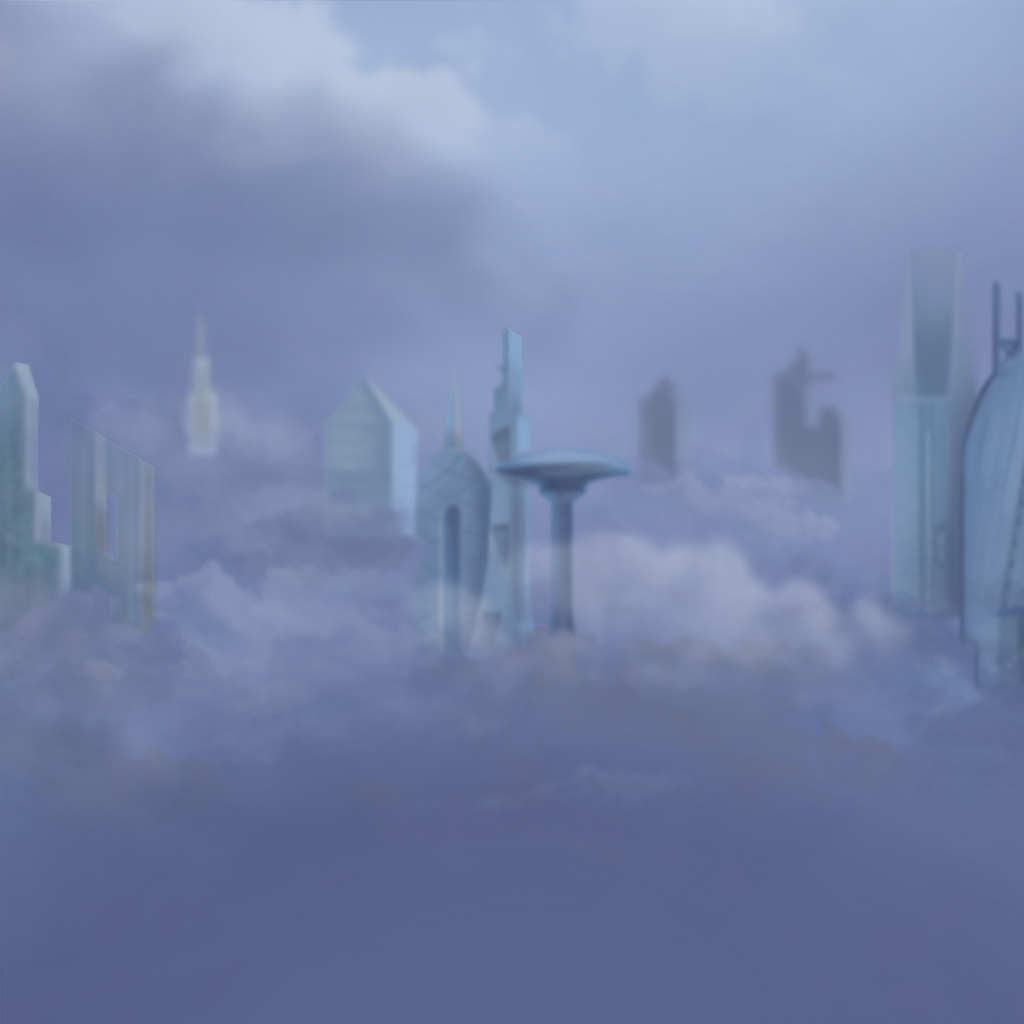
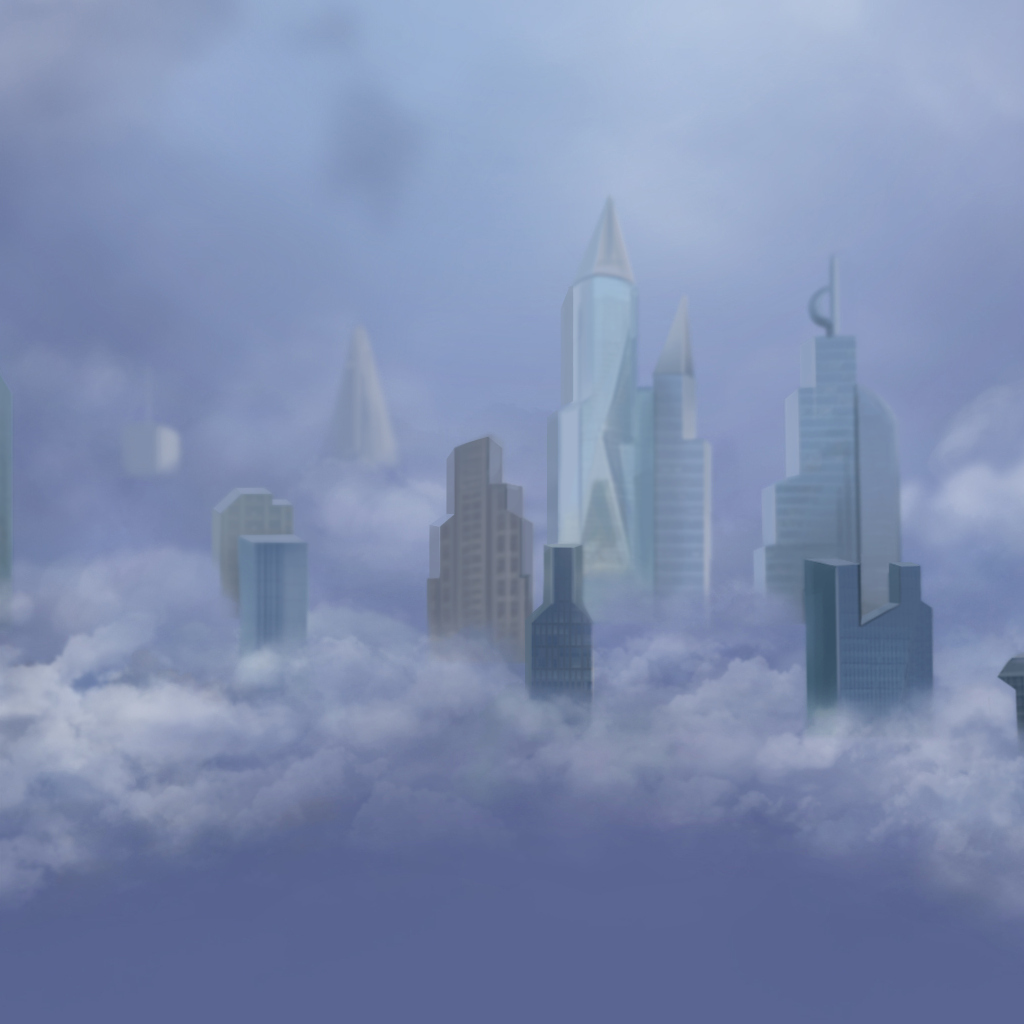
Update home page and arena

diff --git a/src/components/threejs/model.ts b/src/components/threejs/model.ts
@@ -1,4 +1,4 @@
-import { Vector3, LoadingManager, CubeTextureLoader, sRGBEncoding, DirectionalLight, Mesh, PerspectiveCamera, Scene, WebGLRenderer } from "three"
+import { Vector3, LoadingManager, CubeTextureLoader, LinearEncoding, sRGBEncoding, DirectionalLight, Mesh, PerspectiveCamera, Scene, WebGLRenderer } from "three"
 import { OrbitControls } from 'three/examples/jsm/controls/OrbitControls'
 import { GLTFLoader } from 'three/examples/jsm/loaders/GLTFLoader'
 import type { GLTF } from 'three/examples/jsm/loaders/GLTFLoader'
@@ -11,6 +11,7 @@ export class Model {
   private dom: HTMLElement
   private controls: OrbitControls
   private light1: DirectionalLight
+  private light2: DirectionalLight
   private loader: GLTFLoader
   private isAnimating: boolean
   private weaponCoord: number[]
@@ -49,7 +50,7 @@ export class Model {
 
     this.renderer = new WebGLRenderer({ antialias: true, alpha: true });
 
-    this.renderer.outputEncoding = sRGBEncoding;
+    this.renderer.outputEncoding = LinearEncoding;
     this.renderer.physicallyCorrectLights = true
     this.renderer.setClearColor(0x000000, 0); // the default
     this.renderer.setPixelRatio(window.devicePixelRatio);
@@ -60,20 +61,20 @@ export class Model {
     this.controls.update();
 
     if (arenaBg) {
-      this.controls.minDistance = 20;
-      this.controls.maxDistance = 32;
+      this.controls.minDistance = 25;
+      this.controls.maxDistance = 35;
 
       this.scene.background = new CubeTextureLoader()
         .setPath('/img/arena/')
         .load([
-          'nx (2).png',
-          'px (2).png',
-          'py (2).png',
-          'ny (2).png',
-          'pz (2).png',
-          'nz (2).png'
+          'px.png',
+          'nx.png',
+          'py.png',
+          'ny.png',
+          'pz.png',
+          'nz.png'
         ]);
-
+      
       this.loader.load('/media/postament.glb', (gltf) => {
         gltf.scene.name = 'postament'
         gltf.scene.position.setY(0.5)
@@ -81,9 +82,9 @@ export class Model {
         this.scene.add(gltf.scene)
       });
 
-      const light2 = new DirectionalLight(0xFFFFFF, 2);
-      light2.position.set(0, 100, 0);
-      this.scene.add(light2);
+      const light = new DirectionalLight(0xFFFFFF, 4);
+      light.position.set(0, 100, 0);
+      this.scene.add(light);
 
       this.controls.maxPolarAngle = Math.PI / 1.7;
 
@@ -97,14 +98,17 @@ export class Model {
 
 
     const camPos = this.camera.position
-    this.light1 = new DirectionalLight(0xFFFFFF, 3.5);
-    this.light1.position.set(camPos.x, 0, camPos.z);
+    this.light1 = new DirectionalLight(0xFFFFFF, 4.5);
+    this.light1.position.set(camPos.x, camPos.y + 50, camPos.z);
     this.scene.add(this.light1);
+    this.light2 = new DirectionalLight(0xFFFFFF, 3.5);
+    this.light2.position.set(camPos.x, camPos.y + -10, camPos.z);
+    this.scene.add(this.light2);
     this.scene.scale.set(globalScale, globalScale, globalScale);
 
     manager.onLoad = () => {
       this.dom.appendChild(this.renderer.domElement);
-      document.getElementById('loader').style.display = 'none';
+      document.getElementById('loader').style.opacity = '0';
       window.addEventListener("resize", this.onWindowResize.bind(this), false);
       if (!this.isAnimating) {
         this.animate();
@@ -149,9 +153,8 @@ export class Model {
   private animate(): void {
     requestAnimationFrame(this.animate.bind(this));
     this.controls.update();
-    this.light1.position.setX(this.camera.position.x);
-    this.light1.position.setZ(this.camera.position.z);
-    this.light1.position.setY(this.camera.position.y);
+    this.light1.position.set(this.camera.position.x, this.camera.position.y + 50, this.camera.position.z);
+    this.light2.position.set(this.camera.position.x, this.camera.position.y - 10, this.camera.position.z);
     this.renderer.render(this.scene, this.camera);
   }
 }

diff --git a/src/components/threejs/arena.ts b/src/components/threejs/arena.ts
@@ -16,7 +16,7 @@ export class Model {
     this.camera = new PerspectiveCamera(cam, this.dom.offsetWidth / this.dom.offsetHeight);
 
     this.scene = new Scene();
-    this.scene.translateY(0.15)
+    this.scene.translateY(0.3)
 
     const manager = new LoadingManager();
     manager.onProgress = function (item, loaded, total) {
@@ -35,8 +35,8 @@ export class Model {
     const material = new SpriteMaterial({ map: map, color: 0xffffff, fog: false });
 
     const sprite = new Sprite(material);
-    sprite.translateY(-1.3);
-    sprite.scale.set(8,8,8)
+    sprite.translateY(1.4);
+    sprite.scale.set(6,6,6)
     this.scene.add(sprite);
 
     this.renderer = new WebGLRenderer({ antialias: true, alpha: true });
@@ -52,17 +52,18 @@ export class Model {
     const polarAngle = Math.PI / 1.7
     this.controls.minPolarAngle = polarAngle;
     this.controls.maxPolarAngle = polarAngle;
+    this.controls.enableRotate = false;
     this.controls.enableZoom = false;
     this.controls.enablePan = false;
     this.controls.autoRotate = true;
 
-    this.light = new DirectionalLight(0xFDFDFD, 6.5);
+    this.light = new DirectionalLight(0xAAAAAA, 8.5);
     this.light.position.set(this.camera.position.x, this.camera.position.y, this.camera.position.z);
     this.scene.add(this.light);
 
     manager.onLoad = () => {
       this.dom.appendChild(this.renderer.domElement);
-      //document.getElementById('loader').style.display = 'none';
+      document.getElementById('loader').style.opacity = '0';
       window.addEventListener("resize", this.onWindowResize.bind(this), false);
       this.animate();
     };

diff --git a/src/routes/index.svelte b/src/routes/index.svelte
@@ -190,16 +190,17 @@
     <img src="/img/home/main.jpg" class="home-image" alt="Home page">
     <div class="home-arena cursor-pointer" on:click={() => goto('/arena')}>
       <img src="/img/home/arena.png" class="w-100" alt="Home arena">
+      <Arena />
+      <img src="/img/home/molnia.png" class="lottie" alt="Home arena">
       <lottie-player
         autoplay
         loop
         mode="normal"
-        src="/lottie/arena.json"
+        src="/lottie/molnii.json"
         class="lottie"
 
       >
       </lottie-player> 
-      <Arena />
     </div>
     <img src="/img/home/secondary.png" class="home-secondary" alt="Home secondary">
     <div class="home-stake cursor-pointer">
@@ -256,6 +257,12 @@
 
   </div>
 
+  <div id="loader" style="background: #000; position: absolute; left: 0; top: 0; height: 100%; width: 100%; pointer-events: none; transition: all 1s;">
+    <div style="position: absolute; left: 50%; top: 50%; transform: translate(-50%, -50%); ">
+      <div class="lds-spinner"><div></div><div></div><div></div><div></div><div></div><div></div><div></div><div></div><div></div><div></div><div></div><div></div></div>
+    </div>
+  </div>
+
   <a href="/" class="logo-home">
     <Logo height={36} />
   </a>		
@@ -263,4 +270,6 @@
   <div class="auth-home">
     <Auth />
   </div>  
+
+
 </div>

diff --git a/src/routes/arena/index.svelte b/src/routes/arena/index.svelte
@@ -62,8 +62,10 @@
   <div id="threejs" class="threejs">
     
   </div>
-  <div id="loader" style="position: absolute; left: 50%; top: 50%; transform: translate(-50%, -50%); ">
-    <div class="lds-spinner"><div></div><div></div><div></div><div></div><div></div><div></div><div></div><div></div><div></div><div></div><div></div><div></div></div>
+  <div id="loader" style="background: #000; position: absolute; left: 0; top: 0; height: 100%; width: 100%; pointer-events: none; transition: all 1s;">
+    <div style="position: absolute; left: 50%; top: 50%; transform: translate(-50%, -50%); ">
+      <div class="lds-spinner"><div></div><div></div><div></div><div></div><div></div><div></div><div></div><div></div><div></div><div></div><div></div><div></div></div>
+    </div>
   </div>
 
 

diff --git a/src/components/threejs/Lemon.svelte b/src/components/threejs/Lemon.svelte
@@ -43,7 +43,7 @@
   <div id="threejs" class="threejs">
     
   </div>
-  <div id="loader" style="position: absolute; left: 50%; top: 50%; transform: translate(-50%, -50%); ">
+  <div id="loader" style="position: absolute; left: 50%; top: 50%; transform: translate(-50%, -50%); pointer-events: none;">
     <div class="lds-spinner"><div></div><div></div><div></div><div></div><div></div><div></div><div></div><div></div><div></div><div></div><div></div><div></div></div>
   </div>
 </div>
